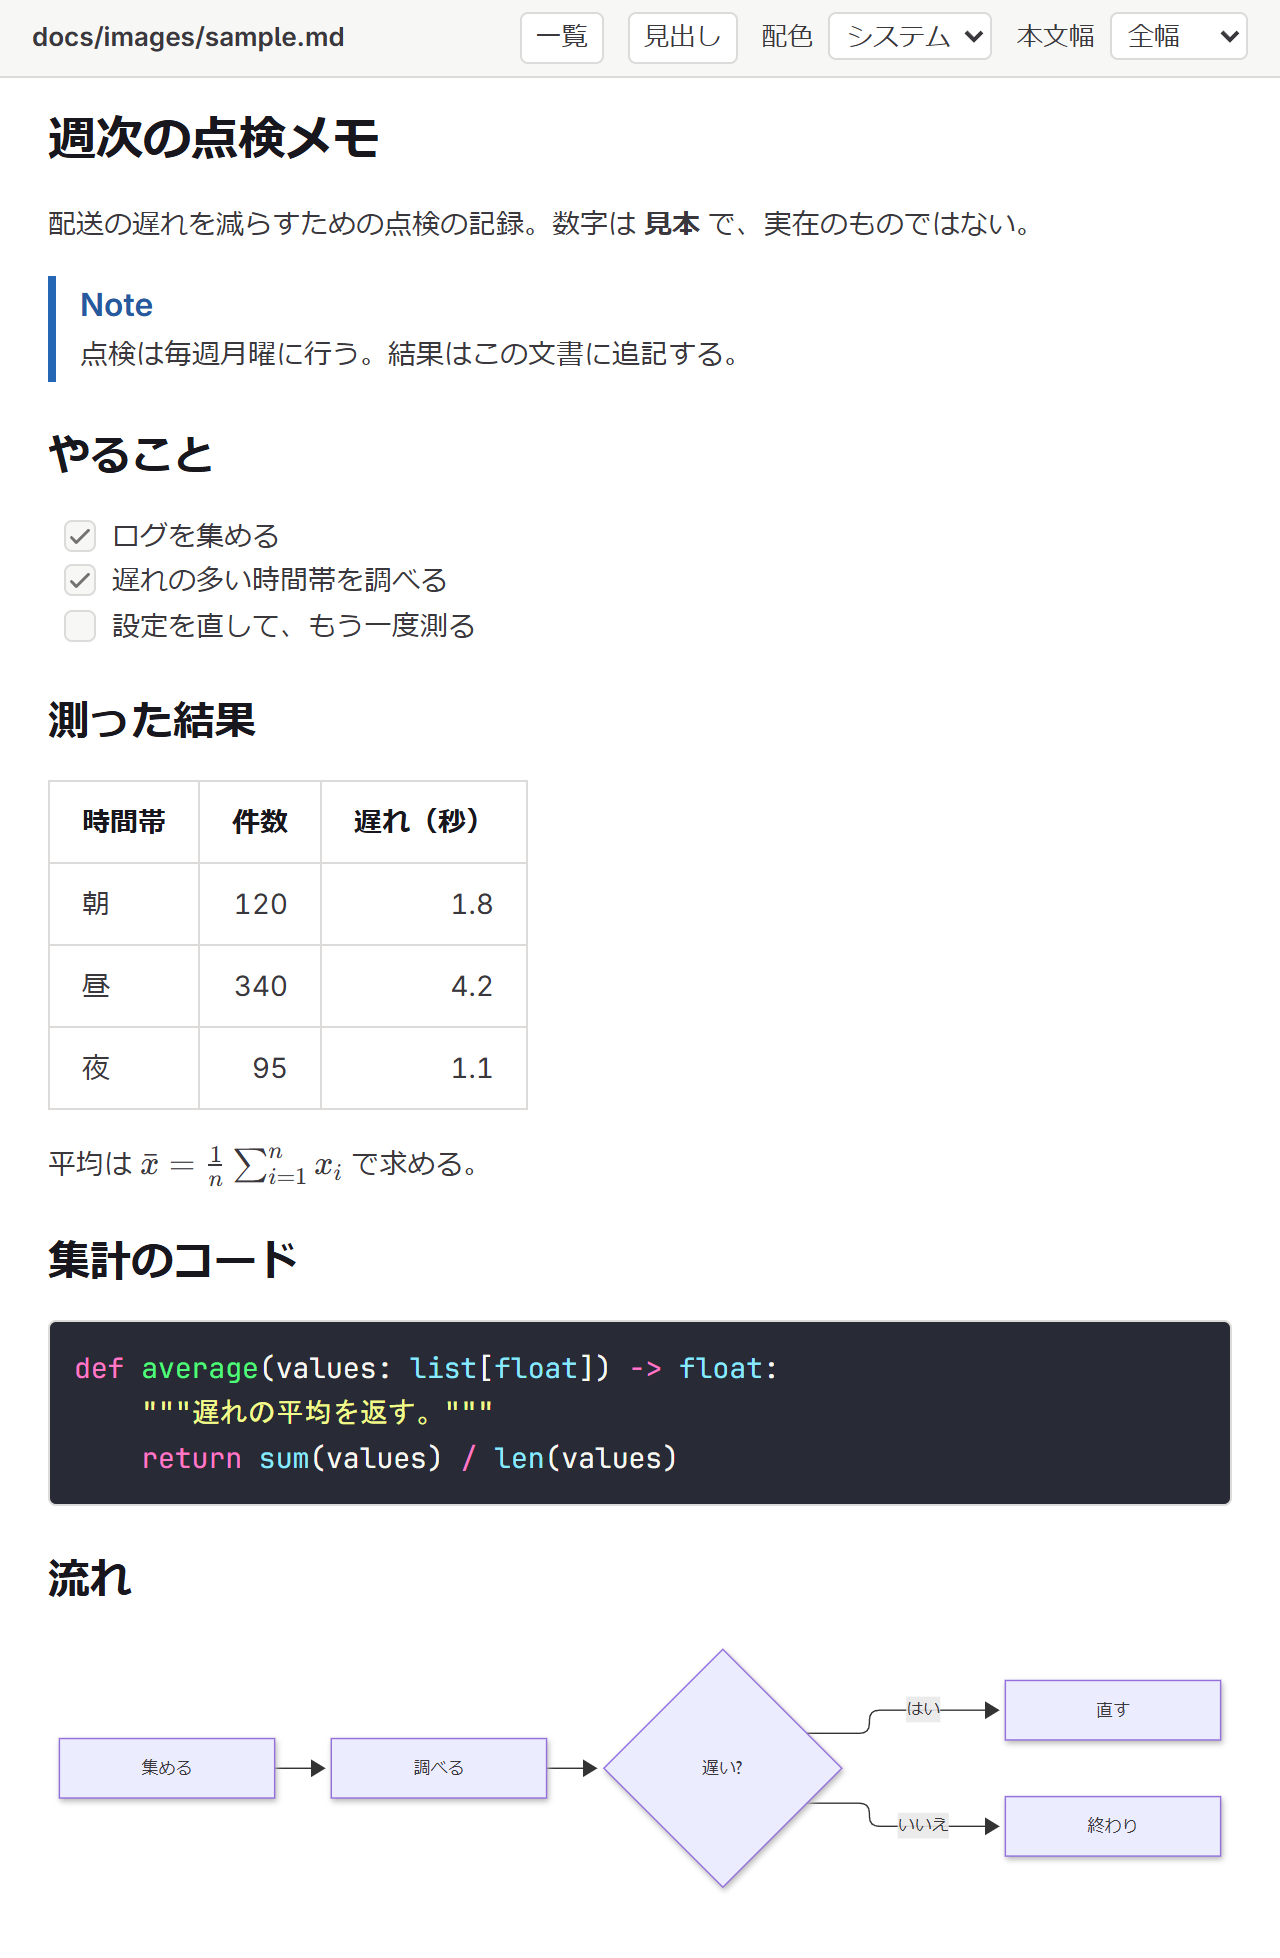
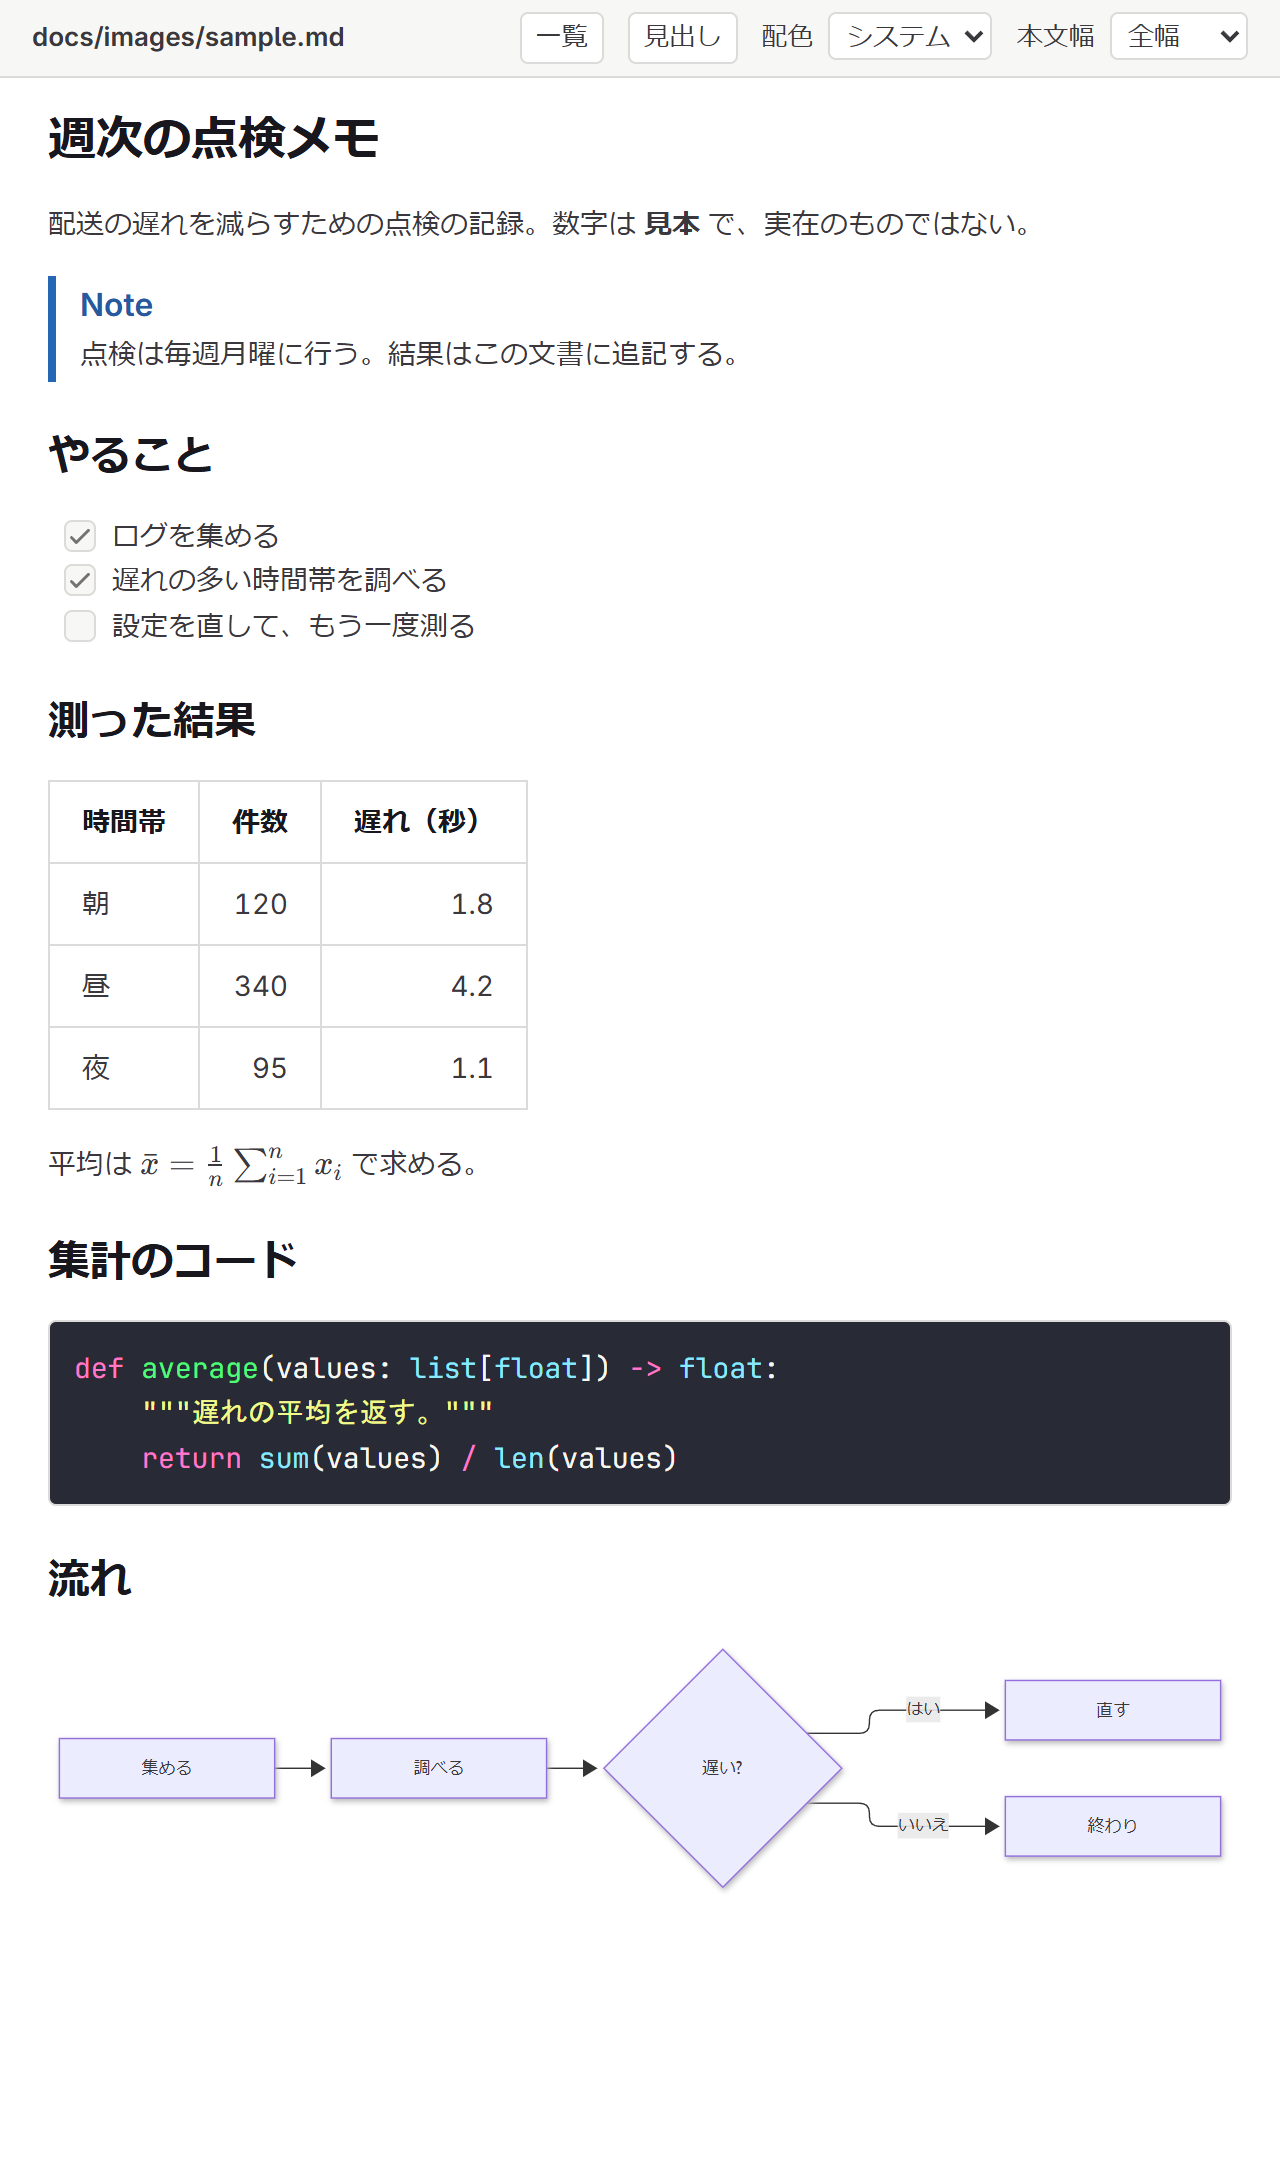
README の 2 枚の画面を、同じ大きさに揃える
高さが違うと、GitHub の表で並べたときに、右の画像が少し下にずれた。

diff --git a/AGENTS.md b/AGENTS.md
@@ -62,7 +62,7 @@ AlmaLinux 10・Windows 11 の導入・更新の手順は [docs/install.md](docs/
 - `page/lib/` — ブラウザに配る KaTeX・mermaid と原文のライセンス。`lock.json` に npm の版・integrity と各ファイルの sha256・大きさを固定する
 - `tools/update-page-libs.mjs` — 開発用。`node_modules` の原文を写し直し、`--check` で固定情報・原文との一致を検査する
 - `docs/install.md` — AlmaLinux 10・Windows 11 の導入・更新の手順
-- `docs/images/` — README に載せるプレビューの画面（`preview-bundled.png`・`preview-official.png`）と、そのもとの合成の Markdown（`sample.md`）。画面は、`mdpreview docs/images/sample.md`（同梱のスタイルは `--no-official-style` を付ける）を、幅 640 px・倍率 2・ライトの配色のブラウザで開き、数式と図が描けてから、本文の終わりまでを撮ったもの。表示を変えたら撮り直す
+- `docs/images/` — README に載せるプレビューの画面（`preview-bundled.png`・`preview-official.png`）と、そのもとの合成の Markdown（`sample.md`）。画面は、`mdpreview docs/images/sample.md`（同梱のスタイルは `--no-official-style` を付ける）を、幅 640 px・倍率 2・ライトの配色のブラウザで開き、数式と図が描けてから、本文の終わりまでを撮ったもの（2 枚は、長いほうの高さに揃える。並べたときに上下がずれないように）。表示を変えたら撮り直す
 - `tools/make-fixtures.mjs` — 開発用。見本の入力を gitlab.com の Markdown API に送り、返った HTML を保存する。アプリからは呼ばれない
 - `test/` — ブラウザの試験と、その補助。`test/fixtures/` は、合成の Markdown（`<名前>.md`）、GitLab の本物の出力（`<名前>.gitlab.html`）、取得した条件（`fixtures.json`）
 
